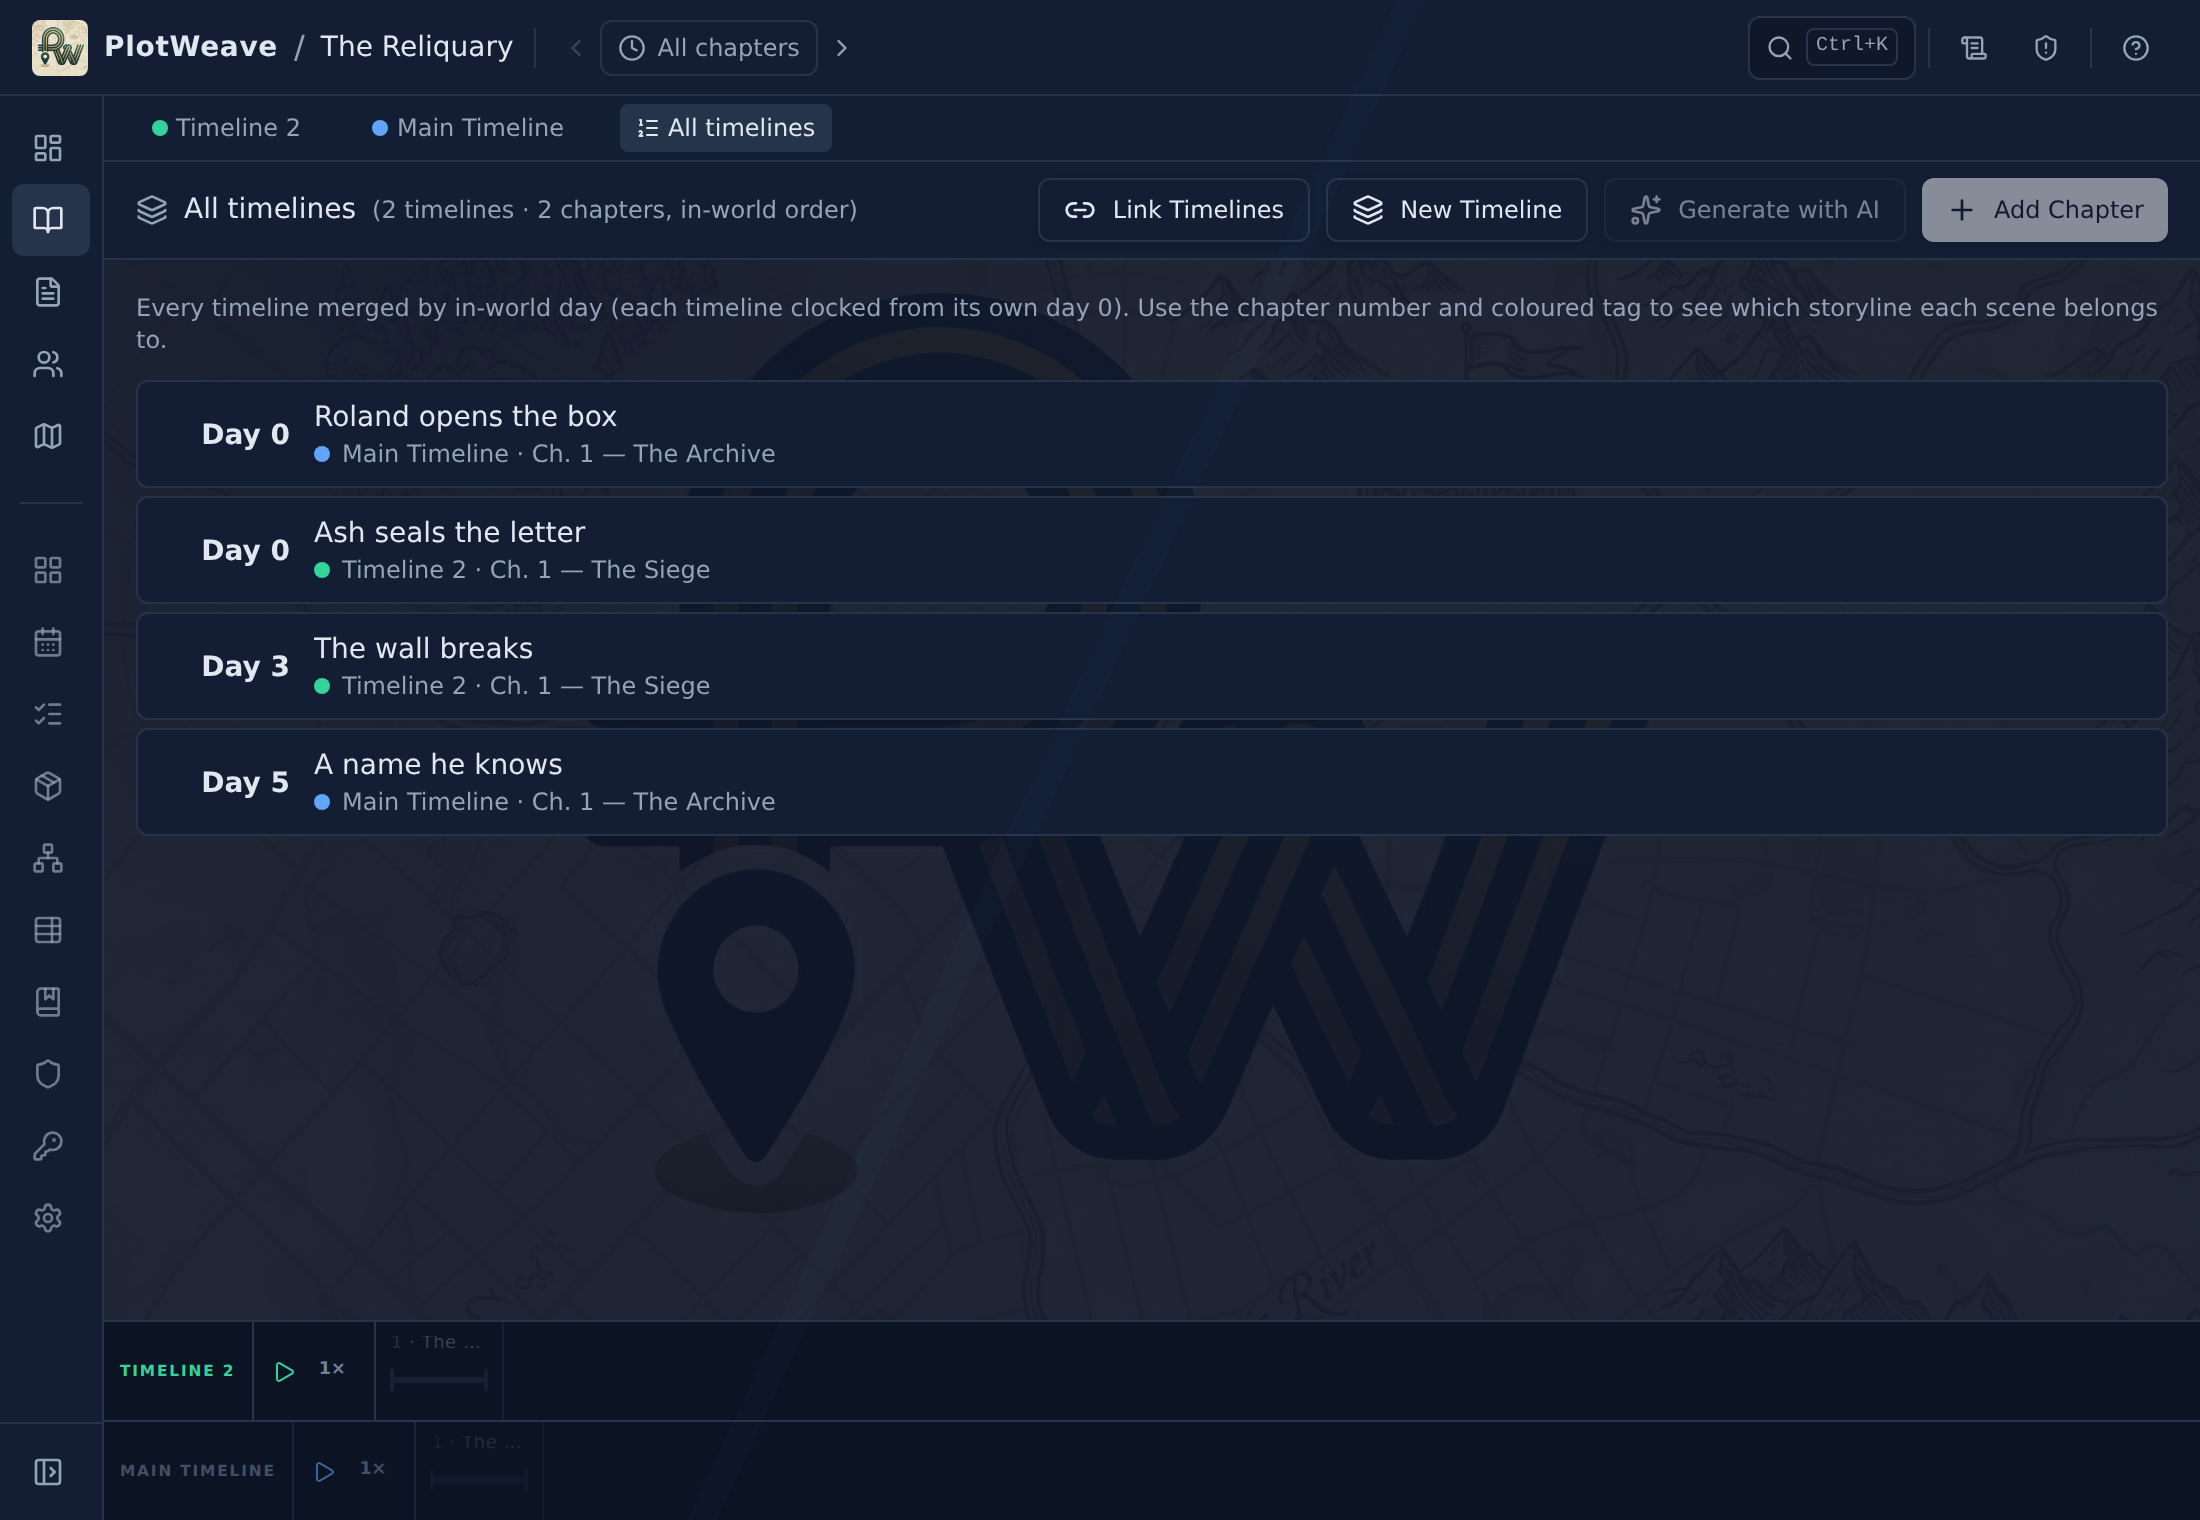
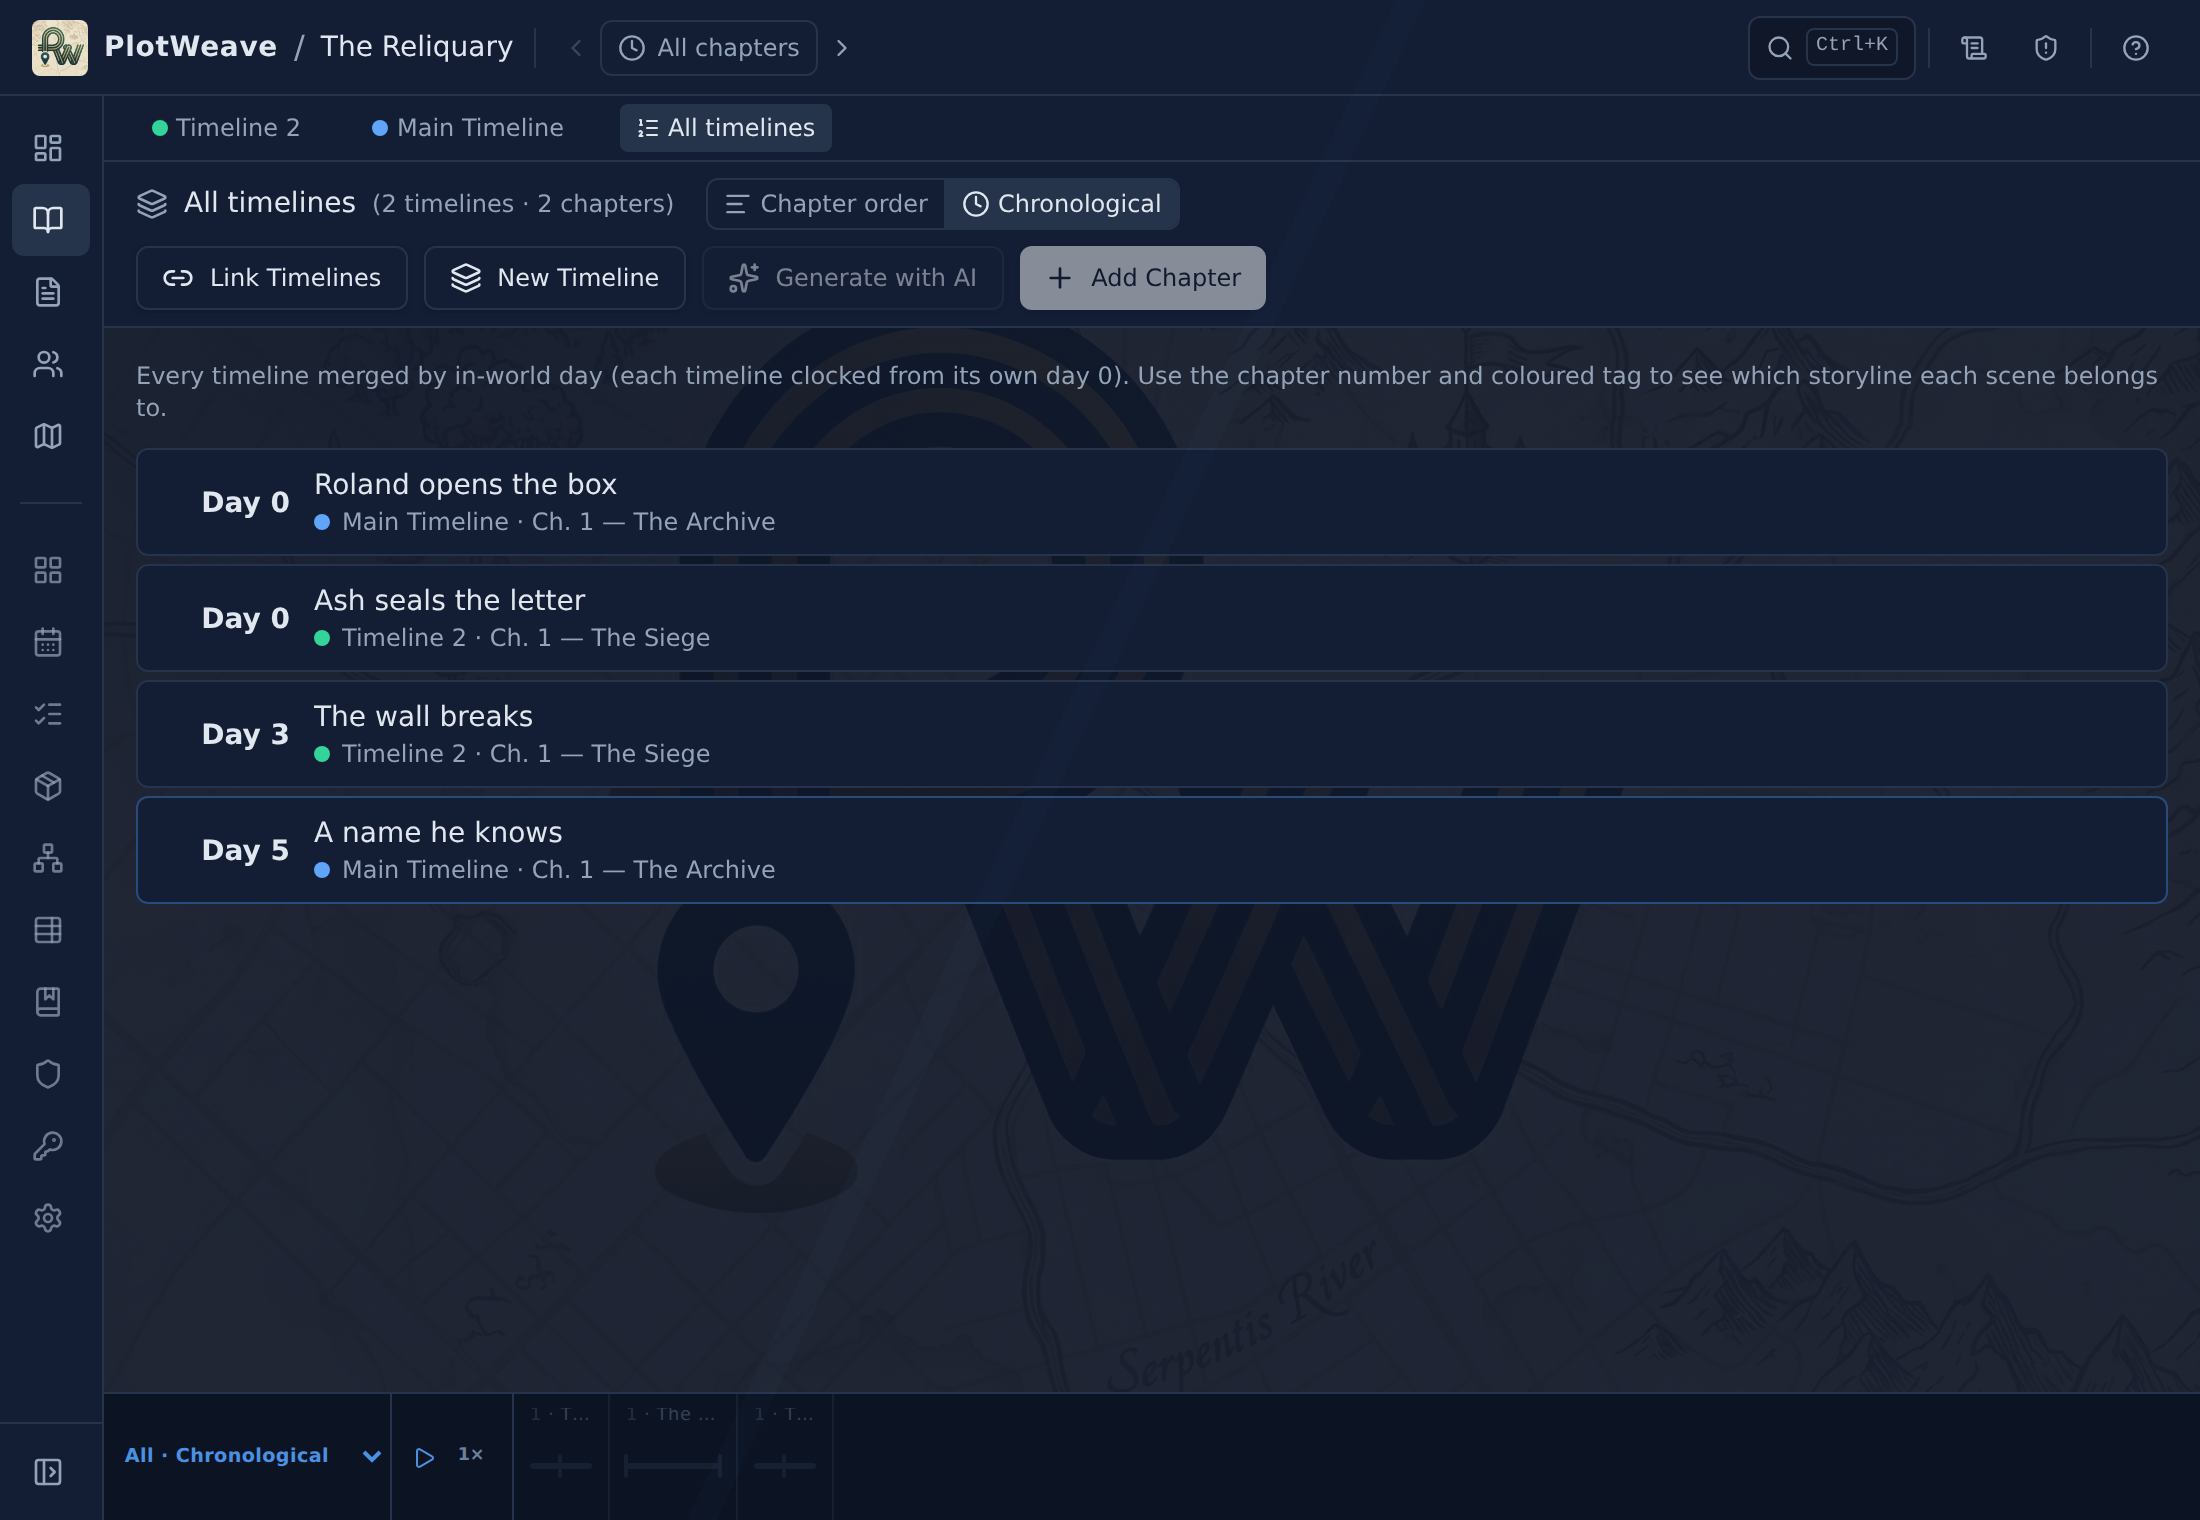
Unify the merged-timeline order across surfaces and persist the bar scope
The Timeline page's "All timelines" tab was chronological-only while the bottom
bar's scope selector offered Chapter order and Chronological, and the two
selections were independent. They are now one setting:

- The All-timelines tab gains a Chapter order / Chronological toggle that reads
  and writes the shared store.barScope ('all-chapter' / 'all-chrono'), so
  changing the order in either the tab or the bar updates both. The tab's list
  uses buildCombinedSequence with that order, and its explainer copy follows.
- barScope is now persisted (plotweave-ui partialize), so the chosen scope —
  a focused timeline or a merged order — survives a reload.

Tests: store units (setter + persistence to localStorage) and the combined-view
e2e now drives the toggle both directions (tab → bar select, bar select → tab)
and asserts the scope survives a page reload. Guide updated; the All-timelines
screenshot recaptured showing the new toggle in sync with the bar.

Claude-Session: https://claude.ai/code/session_012HJuZ3q12imk2q9iq8d945

diff --git a/src/features/timeline/TimelineView.tsx b/src/features/timeline/TimelineView.tsx
@@ -3,7 +3,7 @@ import { useParams } from 'react-router-dom'
 import { Plus, BookOpen, Layers, Sparkles, Link2, X, AlignLeft, Clock, History, ListOrdered, Filter } from 'lucide-react'
 import { useTimelines, useChapters, useTimelineEvents, useWorldChapters, useWorldEvents, createTimeline, updateTimeline, deleteTimeline } from '@/db/hooks/useTimeline'
 import { usePlotThreads } from '@/db/hooks/usePlotThreads'
-import { buildCombinedChronology, type CombinedRow } from '@/lib/combinedTimeline'
+import { buildCombinedSequence, type CombinedOrder, type CombinedRow } from '@/lib/combinedTimeline'
 import { chaptersWithThread } from '@/lib/plotThreads'
 import { useWorld } from '@/db/hooks/useWorlds'
 import { useAppStore } from '@/store'
@@ -93,7 +93,7 @@ function ChronologicalList({ events, chapters, activeEventId, onSelect }: {
 // ── All timelines (combined in-world order) ──────────────────────────────────
 // Every timeline's events merged into one chronological sequence, each row
 // tagged with the timeline it belongs to, so the real order across storylines
-// is visible in one place. Ordering is computed by buildCombinedChronology.
+// is visible in one place. Ordering is computed by buildCombinedSequence.
 const ALL_TIMELINES = '__all__'
 
 function CombinedList({ rows, activeEventId, onSelect }: {
@@ -174,9 +174,14 @@ export default function TimelineView() {
   const [threadFilter, setThreadFilter] = useState<string | null>(null)
   const setActiveEventId = useAppStore((s) => s.setActiveEventId)
   const activeEventId = useAppStore((s) => s.activeEventId)
+  // The combined view's order is shared with the bottom bar's scope selector
+  // (persisted), so choosing an order in either surface updates both.
+  const barScope = useAppStore((s) => s.barScope)
+  const setBarScope = useAppStore((s) => s.setBarScope)
+  const combinedOrder: CombinedOrder = barScope === 'all-chrono' ? 'chrono' : 'chapter'
   const world = useWorld(worldId ?? null)
   const currentTimeline = timelines.find((t) => t.id === currentTimelineId)
-  const combinedRows = isAll ? buildCombinedChronology(worldEvents, worldChapters, timelines) : []
+  const combinedRows = isAll ? buildCombinedSequence(worldEvents, worldChapters, timelines, combinedOrder) : []
   const [addChapterOpen, setAddChapterOpen] = useState(false)
   const [aiChapterOpen, setAiChapterOpen] = useState(false)
   const [relPanelOpen, setRelPanelOpen] = useState(false)
@@ -314,8 +319,29 @@ export default function TimelineView() {
             <>
               <span className="text-sm font-medium">All timelines</span>
               <span className="text-xs text-[hsl(var(--muted-foreground))]">
-                ({timelines.length} timelines · {worldChapters.length} chapters, in-world order)
+                ({timelines.length} timelines · {worldChapters.length} chapters)
               </span>
+              {/* Shared with the bottom bar's scope selector (persisted). */}
+              <div className="ml-2 flex overflow-hidden rounded-md border border-[hsl(var(--border))] text-xs" role="group" aria-label="Combined order">
+                <button
+                  onClick={() => setBarScope('all-chapter')}
+                  aria-pressed={combinedOrder === 'chapter'}
+                  className={cn('flex items-center gap-1 px-2 py-1 transition-colors',
+                    combinedOrder === 'chapter' ? 'bg-[hsl(var(--accent))] text-[hsl(var(--foreground))]' : 'text-[hsl(var(--muted-foreground))] hover:bg-[hsl(var(--accent)/0.4)]')}
+                  title="Reading order — chapter numbers across all timelines"
+                >
+                  <AlignLeft className="h-3.5 w-3.5" /> Chapter order
+                </button>
+                <button
+                  onClick={() => setBarScope('all-chrono')}
+                  aria-pressed={combinedOrder === 'chrono'}
+                  className={cn('flex items-center gap-1 border-l border-[hsl(var(--border))] px-2 py-1 transition-colors',
+                    combinedOrder === 'chrono' ? 'bg-[hsl(var(--accent))] text-[hsl(var(--foreground))]' : 'text-[hsl(var(--muted-foreground))] hover:bg-[hsl(var(--accent)/0.4)]')}
+                  title="In-world order — events by when they actually happen"
+                >
+                  <Clock className="h-3.5 w-3.5" /> Chronological
+                </button>
+              </div>
             </>
           ) : (
             <>
@@ -369,8 +395,10 @@ export default function TimelineView() {
         {isAll ? (
           <div className="flex flex-col gap-3">
             <p className="text-xs text-[hsl(var(--muted-foreground))]">
-              Every timeline merged by in-world day (each timeline clocked from its own day&nbsp;0).
-              Use the chapter number and coloured tag to see which storyline each scene belongs to.
+              {combinedOrder === 'chrono'
+                ? 'Every timeline merged by in-world day (each timeline clocked from its own day 0).'
+                : 'Every timeline merged in reading order, following chapter numbers across all timelines.'}
+              {' '}Use the chapter number and coloured tag to see which storyline each scene belongs to.
             </p>
             <CombinedList rows={combinedRows} activeEventId={activeEventId} onSelect={setActiveEventId} />
           </div>

diff --git a/e2e/combinedTimeline.spec.ts b/e2e/combinedTimeline.spec.ts
@@ -2,7 +2,8 @@ import { test, expect } from '@playwright/test'
 import { resetDB } from './helpers/reset'
 
 // Two timelines, each with a chapter + event. The "All timelines" tab merges
-// them into one in-world sequence. The ordering maths is unit-tested in
+// them into one sequence, with an order toggle shared (and persisted) with the
+// bottom bar's scope selector. The ordering maths is unit-tested in
 // src/lib/__tests__/combinedTimeline.test.ts; this drives the real view.
 
 test('All timelines tab shows events from every timeline in one sequence', async ({ page }) => {
@@ -44,14 +45,31 @@ test('All timelines tab shows events from every timeline in one sequence', async
   await gotoTimeline()
   await page.getByRole('tab', { name: 'All timelines' }).click()
 
-  // Both timelines' events appear in the one merged list.
+  // Both timelines' events appear in the one merged list — default order is
+  // the reading-order merge, matching the bottom bar's default scope.
   const main = page.getByRole('main')
-  await expect(main.getByText('Every timeline merged by in-world day', { exact: false })).toBeVisible()
+  await expect(main.getByText('Every timeline merged in reading order', { exact: false })).toBeVisible()
   await expect(main.getByText('Alpha scene', { exact: true })).toBeVisible()
   await expect(main.getByText('Beta scene', { exact: true })).toBeVisible()
-  await expect(main.getByText(/2 timelines · 2 chapters, in-world order/)).toBeVisible()
+  await expect(main.getByText(/2 timelines · 2 chapters/)).toBeVisible()
 
   // Each row is tagged with the timeline it belongs to.
   await expect(main.getByText(/Main Timeline · Ch\. 1 — One/)).toBeVisible()
   await expect(main.getByText(/Timeline 2 · Ch\. 1 — Two/)).toBeVisible()
+
+  // The order toggle is shared with the bottom bar's scope selector:
+  // switching to Chronological here updates the bar…
+  const barScope = page.getByLabel('Timeline bar scope')
+  await page.getByRole('button', { name: 'Chronological' }).click()
+  await expect(main.getByText('Every timeline merged by in-world day', { exact: false })).toBeVisible()
+  await expect(barScope).toHaveValue('all-chrono')
+
+  // …and changing the bar updates the tab.
+  await barScope.selectOption('all-chapter')
+  await expect(main.getByText('Every timeline merged in reading order', { exact: false })).toBeVisible()
+
+  // The chosen scope survives a reload (persisted store).
+  await barScope.selectOption('all-chrono')
+  await page.reload({ waitUntil: 'load' })
+  await expect(page.getByLabel('Timeline bar scope')).toHaveValue('all-chrono')
 })

diff --git a/src/store/__tests__/appStore.test.ts b/src/store/__tests__/appStore.test.ts
@@ -424,3 +424,25 @@ describe('PlaybackSlice — frame narrative', () => {
 
 // Suppression logic has moved to the DB (continuitySuppressions table) and is
 // covered by the useContinuitySuppressions hook. Store no longer owns this state.
+
+// ── barScope (bottom-bar timeline scope) ─────────────────────────────────────
+
+describe('barScope', () => {
+  it('defaults to null (the bar falls back to the chapter-order merge)', () => {
+    useAppStore.setState({ barScope: null })
+    expect(useAppStore.getState().barScope).toBeNull()
+  })
+
+  it('stores a timeline id or a merge sentinel', () => {
+    useAppStore.getState().setBarScope('tl-1')
+    expect(useAppStore.getState().barScope).toBe('tl-1')
+    useAppStore.getState().setBarScope('all-chrono')
+    expect(useAppStore.getState().barScope).toBe('all-chrono')
+  })
+
+  it('is persisted so the chosen scope survives a reload', () => {
+    useAppStore.getState().setBarScope('all-chrono')
+    const persisted = JSON.parse(localStorage.getItem('plotweave-ui') ?? '{}')
+    expect(persisted.state?.barScope).toBe('all-chrono')
+  })
+})

diff --git a/src/store/index.ts b/src/store/index.ts
@@ -214,6 +214,7 @@ export const useAppStore = create<AppStore>()(
         activeEventId: state.activeEventId,
         sidebarOpen: state.sidebarOpen,
         navPinned: state.navPinned,
+        barScope: state.barScope,
       }),
     }
   )

diff --git a/docs/GUIDE.md b/docs/GUIDE.md
@@ -295,7 +295,8 @@ Every **other multi-timeline world** uses a single-height bottom bar with a
 **scope selector** on its left. Choose one timeline to scrub it on its own, or
 pick **All · Chapter order** / **All · Chronological** to merge every timeline
 into one strip — each chapter run tinted with its timeline's colour, and the
-active event's panel showing which storyline it belongs to.
+active event's panel showing which storyline it belongs to. The scope is
+remembered between sessions.
 
 **Chapter order** follows chapter numbers across all timelines, so a book
 numbered straight through (e.g. book III = ch. 1–11, book IV = ch. 12–21) reads
@@ -317,11 +318,15 @@ interleave.
 Each timeline numbers its chapters on its own and keeps its own in-world clock,
 so switching between tabs never shows how the storylines actually interleave.
 The **All timelines** tab (it appears alongside your timeline tabs once you have
-more than one) merges every timeline into a single **in-world sequence** — every
-scene ordered by the day it happens, with each timeline clocked from its own
-day 0. Each row is tagged with a coloured dot, its timeline name, and its chapter,
-so you can read the true order of events across parallel POVs or braided plots at
-a glance. Click any row to move the time cursor to that moment.
+more than one) merges every timeline into a single sequence, with the same two
+orders as the bottom bar: **Chapter order** (reading order, following chapter
+numbers across all timelines) or **Chronological** (every scene ordered by the
+in-world day it happens, each timeline clocked from its own day 0). The toggle
+here and the bottom bar's scope selector are one setting — change either and
+both follow, and your choice is remembered between sessions. Each row is tagged
+with a coloured dot, its timeline name, and its chapter, so you can read the
+true order of events across parallel POVs or braided plots at a glance. Click
+any row to move the time cursor to that moment.
 
 ![All timelines combined view](images/47-all-timelines.png)
 
